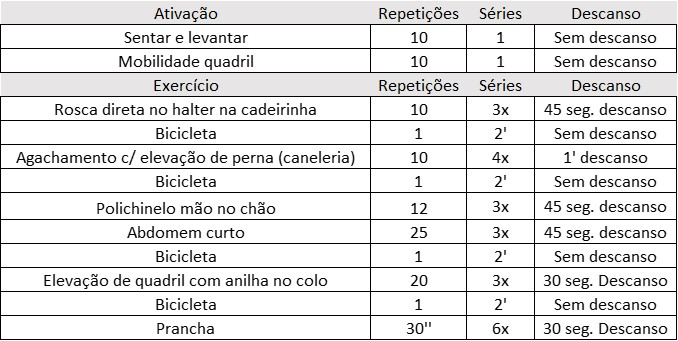
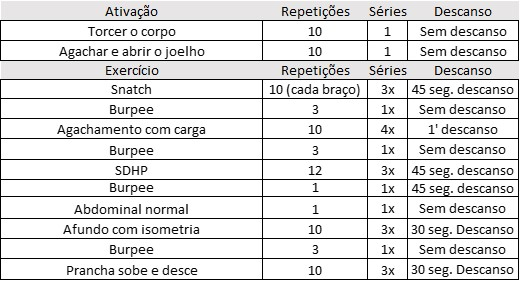
ana

Changed region(s): [[0.0, 0.0, 1.0, 1.0]]

diff --git a/docs/atletas/impulsao.html b/docs/atletas/impulsao.html
@@ -32,35 +32,27 @@
     </header>
     <main>
        <section class="materias">
-            <header class="depoimento_conteudo bloco_cabecalho_degrade"># Ana Paula</a></header>
+            <header class="depoimento_conteudo bloco_cabecalho_degrade"># Impulsão</a></header>
             <div class="segundapagina espaco">   
                
                 <img class="cara" src="../galeria/ana.jpg">
-                <p>Idade: 38
+                <p>Treino: Inicial para impulsão
             </br>
            Frequência: No mínimo 3x por semana
         </br>
-        Treino: 2
+        Dificuldade: Básico
     </br>
-        Objetivo: Melhoria do fôlego, diminuição de gordura abdominal, foco em mebros inferiores e glúteo.
+        Objetivo: Melhoria da impulsão, Aumento de interação de membros superiores e inferiores com foco na 
+        conservação de energia.
         </br>
-        Característica: Os treinos terão características diversas, focados ao objetivo já mencionado e à rotina. Na semana é obrigatório
-        realizar pelo menos 1x cada treino, após isso, poderá escolher qual treino será realizado nos outros dias.
+        Característica: A característica deste treino de impulsão está no tempo de treino, planejado para durar pouco tempo, em 
+        atletas sem lesão aparente com uma noção de impulsão de básica para intermediária.
             </p>
             </div>
         </section>
+            
         <section class="materias">
-            <header class="depoimento_conteudo bloco_cabecalho_degrade">Informações Gerais</a></header>
-         
-            <div class="galeria">
-                <iframe width="314" height="225" src="https://www.youtube.com/embed/EX_ljh5CiJE"frameborder="0"
-                    allow="accelerometer; autoplay; encrypted-media; gyroscope; picture-in-picture"
-                    allowfullscreen></iframe>
-            </div>
-            </div>
-        </section>
-        <section class="materias">
-            <header class="depoimento_conteudo bloco_cabecalho_degrade">Treino A</a></header>
+            <header class="depoimento_conteudo bloco_cabecalho_degrade">Treino</a></header>
             <div class="segundapagina espaco">   
                 <img class="shoot" src="../galeria/anaa.jpg">
                 <p>O treino A será alternando entre exercício e burpee. Portanto, toda troca de exercício, realizar 3 burpees.
@@ -68,44 +60,13 @@
                     semelhante ao treino A passado.
             </p>
             <div class="galeria">
-                <iframe width="314" height="225" src="https://www.youtube.com/embed/RGWIMqQY59c"frameborder="0"
+                <iframe width="314" height="225" src="https://www.youtube.com/embed/O9l6lDF8qPM"frameborder="0"
                     allow="accelerometer; autoplay; encrypted-media; gyroscope; picture-in-picture"
                     allowfullscreen></iframe>
             </div>
             </div>
         </section>
-        <section class="materias">
-            <header class="depoimento_conteudo bloco_cabecalho_degrade">Treino B</a></header>
-            <div class="segundapagina espaco">   
-                <img class="shoot" src="../galeria/anab.jpg">
-                <p>A característica do treino B é força, portanto fazer todos os exercícios o mais lento possível.
-                    Prestar bastante ateção no abdômem, em todos os exercícios, deixar ele bem contraído para não sobrecarregar as 
-                    costas.
-            </p>
-            <div class="galeria">
-                <iframe width="314" height="225" src="https://www.youtube.com/embed/4fZSKc2Ko3o" frameborder="0"
-                    allow="accelerometer; autoplay; encrypted-media; gyroscope; picture-in-picture"
-                    allowfullscreen></iframe>
-            </div>
-            </div>
-        </section>
-        <section class="materias">
-            <header class="depoimento_conteudo bloco_cabecalho_degrade">Treino C</a></header>
-            <div class="segundapagina espaco">   
-                <img class="shoot" src="../galeria/anac.jpg">
-                <p>O treino C será apenas como complemento sendo basicamente só bicicleta. Entender a diferença
-                    de velocidades em lento, moderado e rápido. Respeitar os tempos e intensidade.
-                    
-            </p>
-            <div class="galeria">
-                <iframe width="314" height="225" src="https://www.youtube.com/embed/rGd1p-6KYFM" frameborder="0"
-                    allow="accelerometer; autoplay; encrypted-media; gyroscope; picture-in-picture"
-                    allowfullscreen></iframe>
-            </div>
-            </div>
-        </section>
-        
-    
+       
         <section class="contato bloco ">
             <header class="contato_cabecalho bloco_cabecalho_degrade">Feedback</header>
             <div class="contato_form">
